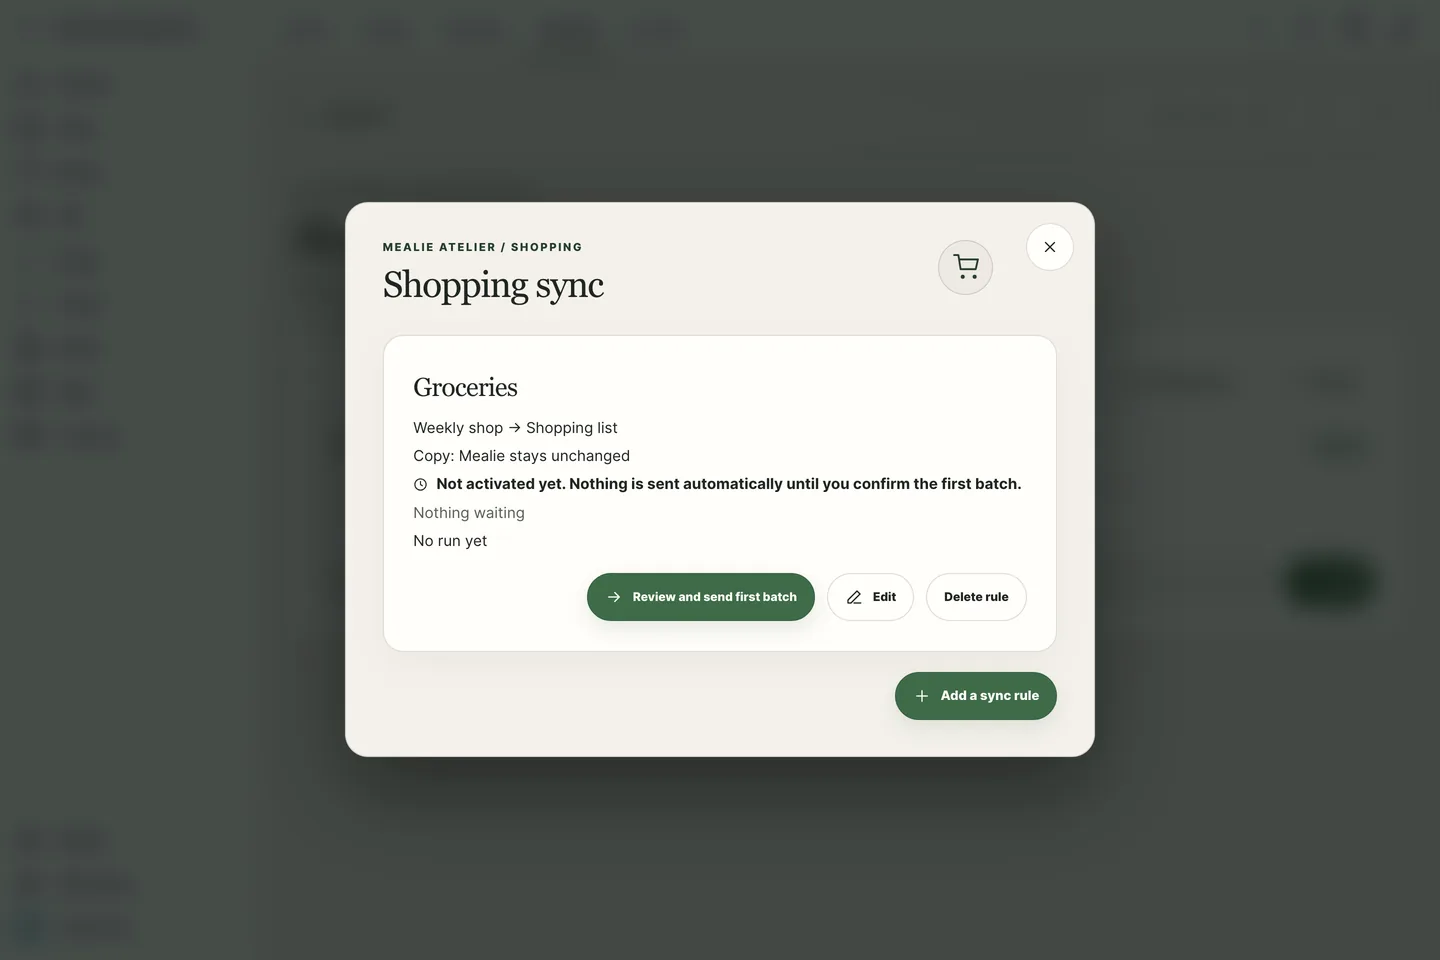
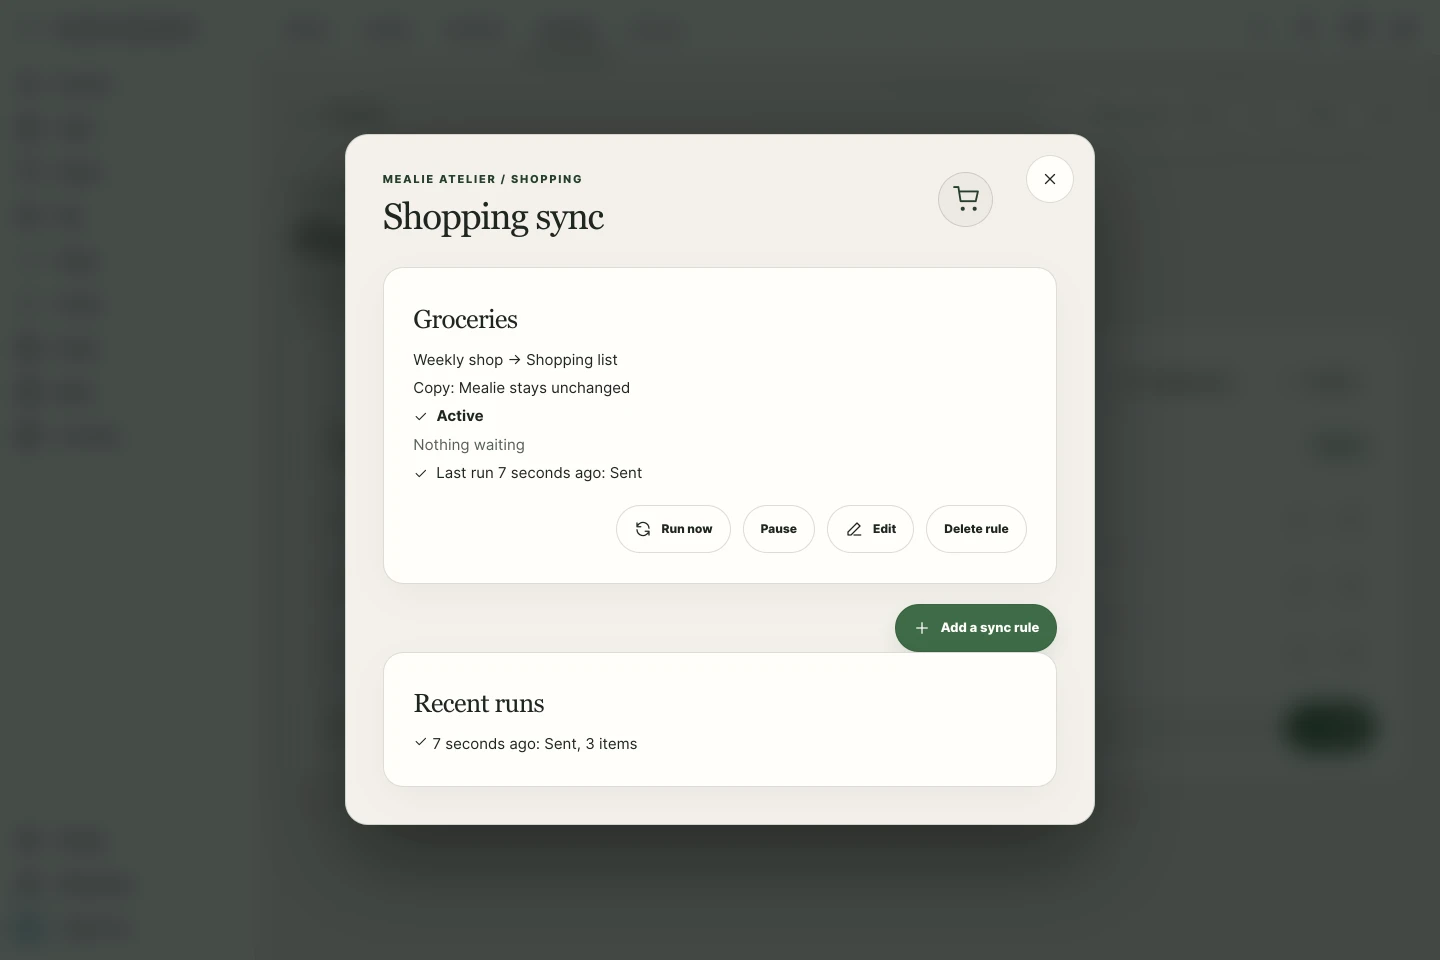
Capture the sync status shot from an active rule with a first batch sent

diff --git a/tests/live/capture_bridge.py b/tests/live/capture_bridge.py
@@ -3,7 +3,9 @@
 Usage: uv run --with playwright python tests/live/capture_bridge.py [out-dir] [language]
 Run capture_screens.py first (it builds the screenshot dashboards). Saves the setup form, the
 integration page and the Smart Shopping Sync dialogs in light theme. A sync rule is created for the
-dialog shots and deleted again; it is never activated, so nothing is sent.
+dialog shots and deleted again. Its first batch is sent once to Home Assistant's built-in shopping
+list (a throwaway destination) so the status shot shows an active rule with a last run; the sent
+items are removed from that list again.
 
 Set CARDS_BUNDLE to a built mealie-atelier-cards.js to capture a cards build other than the one the
 rig mounts, for example a worktree's dist, without touching the mounted files.
@@ -70,6 +72,35 @@ async def create_rule(source_list_id: str) -> str:
     return (await ws({"type": "mealie_atelier/sync_rule_save", "rule": rule}))["rule"]["id"]
 
 
+DESTINATION = "todo.shopping_list"
+
+
+def item_notes() -> list[str]:
+    if LANGUAGE == "de":
+        return ["Äpfel", "Haferflocken", "Zitronen"]
+    return ["Apples", "Oats", "Lemons"]
+
+
+async def activate(rule_id: str) -> None:
+    """Send the first batch so the rule is active and has a run to show."""
+    await ws({"type": "mealie_atelier/sync_run", "rule_id": rule_id, "confirm_first_batch": True})
+
+
+async def clear_destination() -> None:
+    listed = await ws({"type": "todo/item/list", "entity_id": DESTINATION})
+    ours = [i["uid"] for i in listed["items"] if i["summary"] in item_notes()]
+    if ours:
+        await ws(
+            {
+                "type": "call_service",
+                "domain": "todo",
+                "service": "remove_item",
+                "target": {"entity_id": DESTINATION},
+                "service_data": {"item": ours},
+            }
+        )
+
+
 async def abort_flows() -> None:
     for flow in await ws({"type": "config_entries/flow/progress"}):
         if flow.get("handler") == "mealie_atelier":
@@ -88,7 +119,14 @@ def main() -> None:
     list_id = mealie("POST", "/api/households/shopping/lists", {"name": list_name()})["id"]
     rule_id = ""
     try:
+        for note in item_notes():
+            mealie(
+                "POST",
+                "/api/households/shopping/items",
+                {"shoppingListId": list_id, "note": note, "quantity": 0, "checked": False},
+            )
         rule_id = asyncio.run(create_rule(list_id))
+        asyncio.run(activate(rule_id))
         with sync_playwright() as play:
             browser = play.chromium.launch(
                 headless=True, args=["--lang=de-DE" if LANGUAGE == "de" else "--lang=en-US"]
@@ -133,9 +171,7 @@ def main() -> None:
                 page.locator("[data-action='sync-open'] >> visible=true").click()
                 page.locator("[data-action='sync-setup-open'] >> visible=true").first.wait_for()
                 shoot(page, "bridge-sync-status")
-                page.locator(
-                    f"[data-action='sync-setup-open'][data-value='{rule_id}'].primary"
-                ).click()
+                page.locator(f"[data-action='sync-setup-open'][data-value='{rule_id}']").click()
                 page.wait_for_load_state("networkidle")
                 shoot(page, "bridge-sync-setup")
                 context.close()
@@ -149,7 +185,10 @@ def main() -> None:
             try:
                 mealie("DELETE", f"/api/households/shopping/lists/{list_id}")
             finally:
-                asyncio.run(abort_flows())
+                try:
+                    asyncio.run(clear_destination())
+                finally:
+                    asyncio.run(abort_flows())
     print(f"screenshots in {OUT}")
 
 
